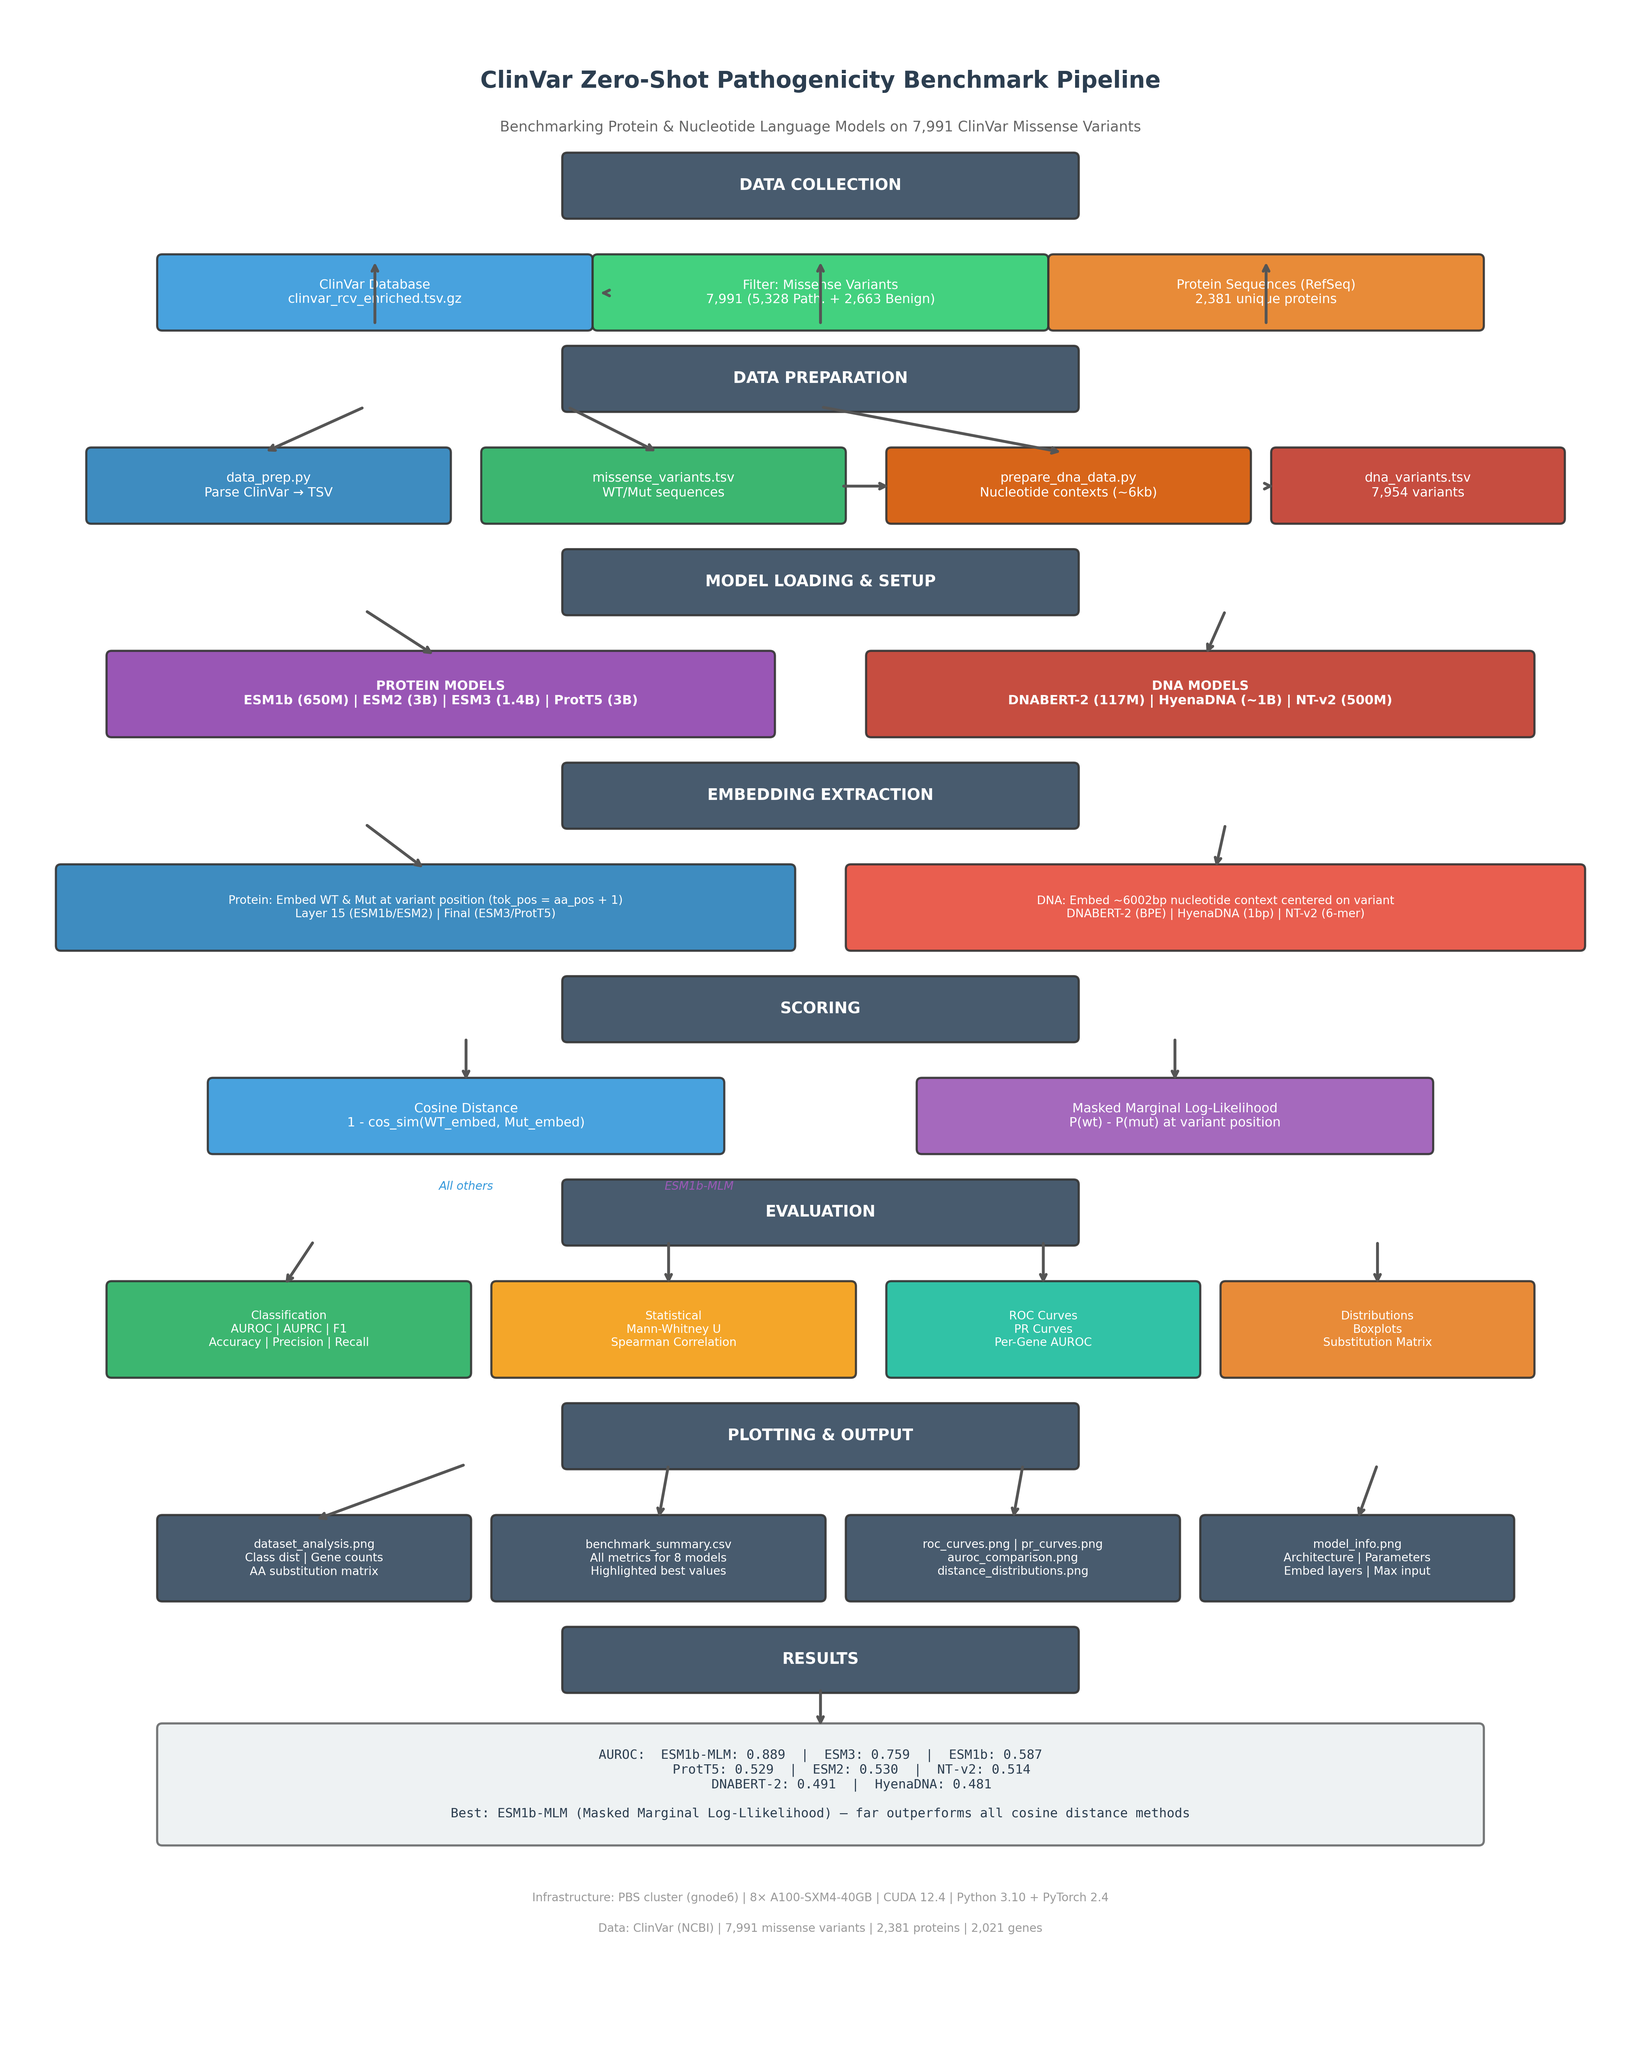
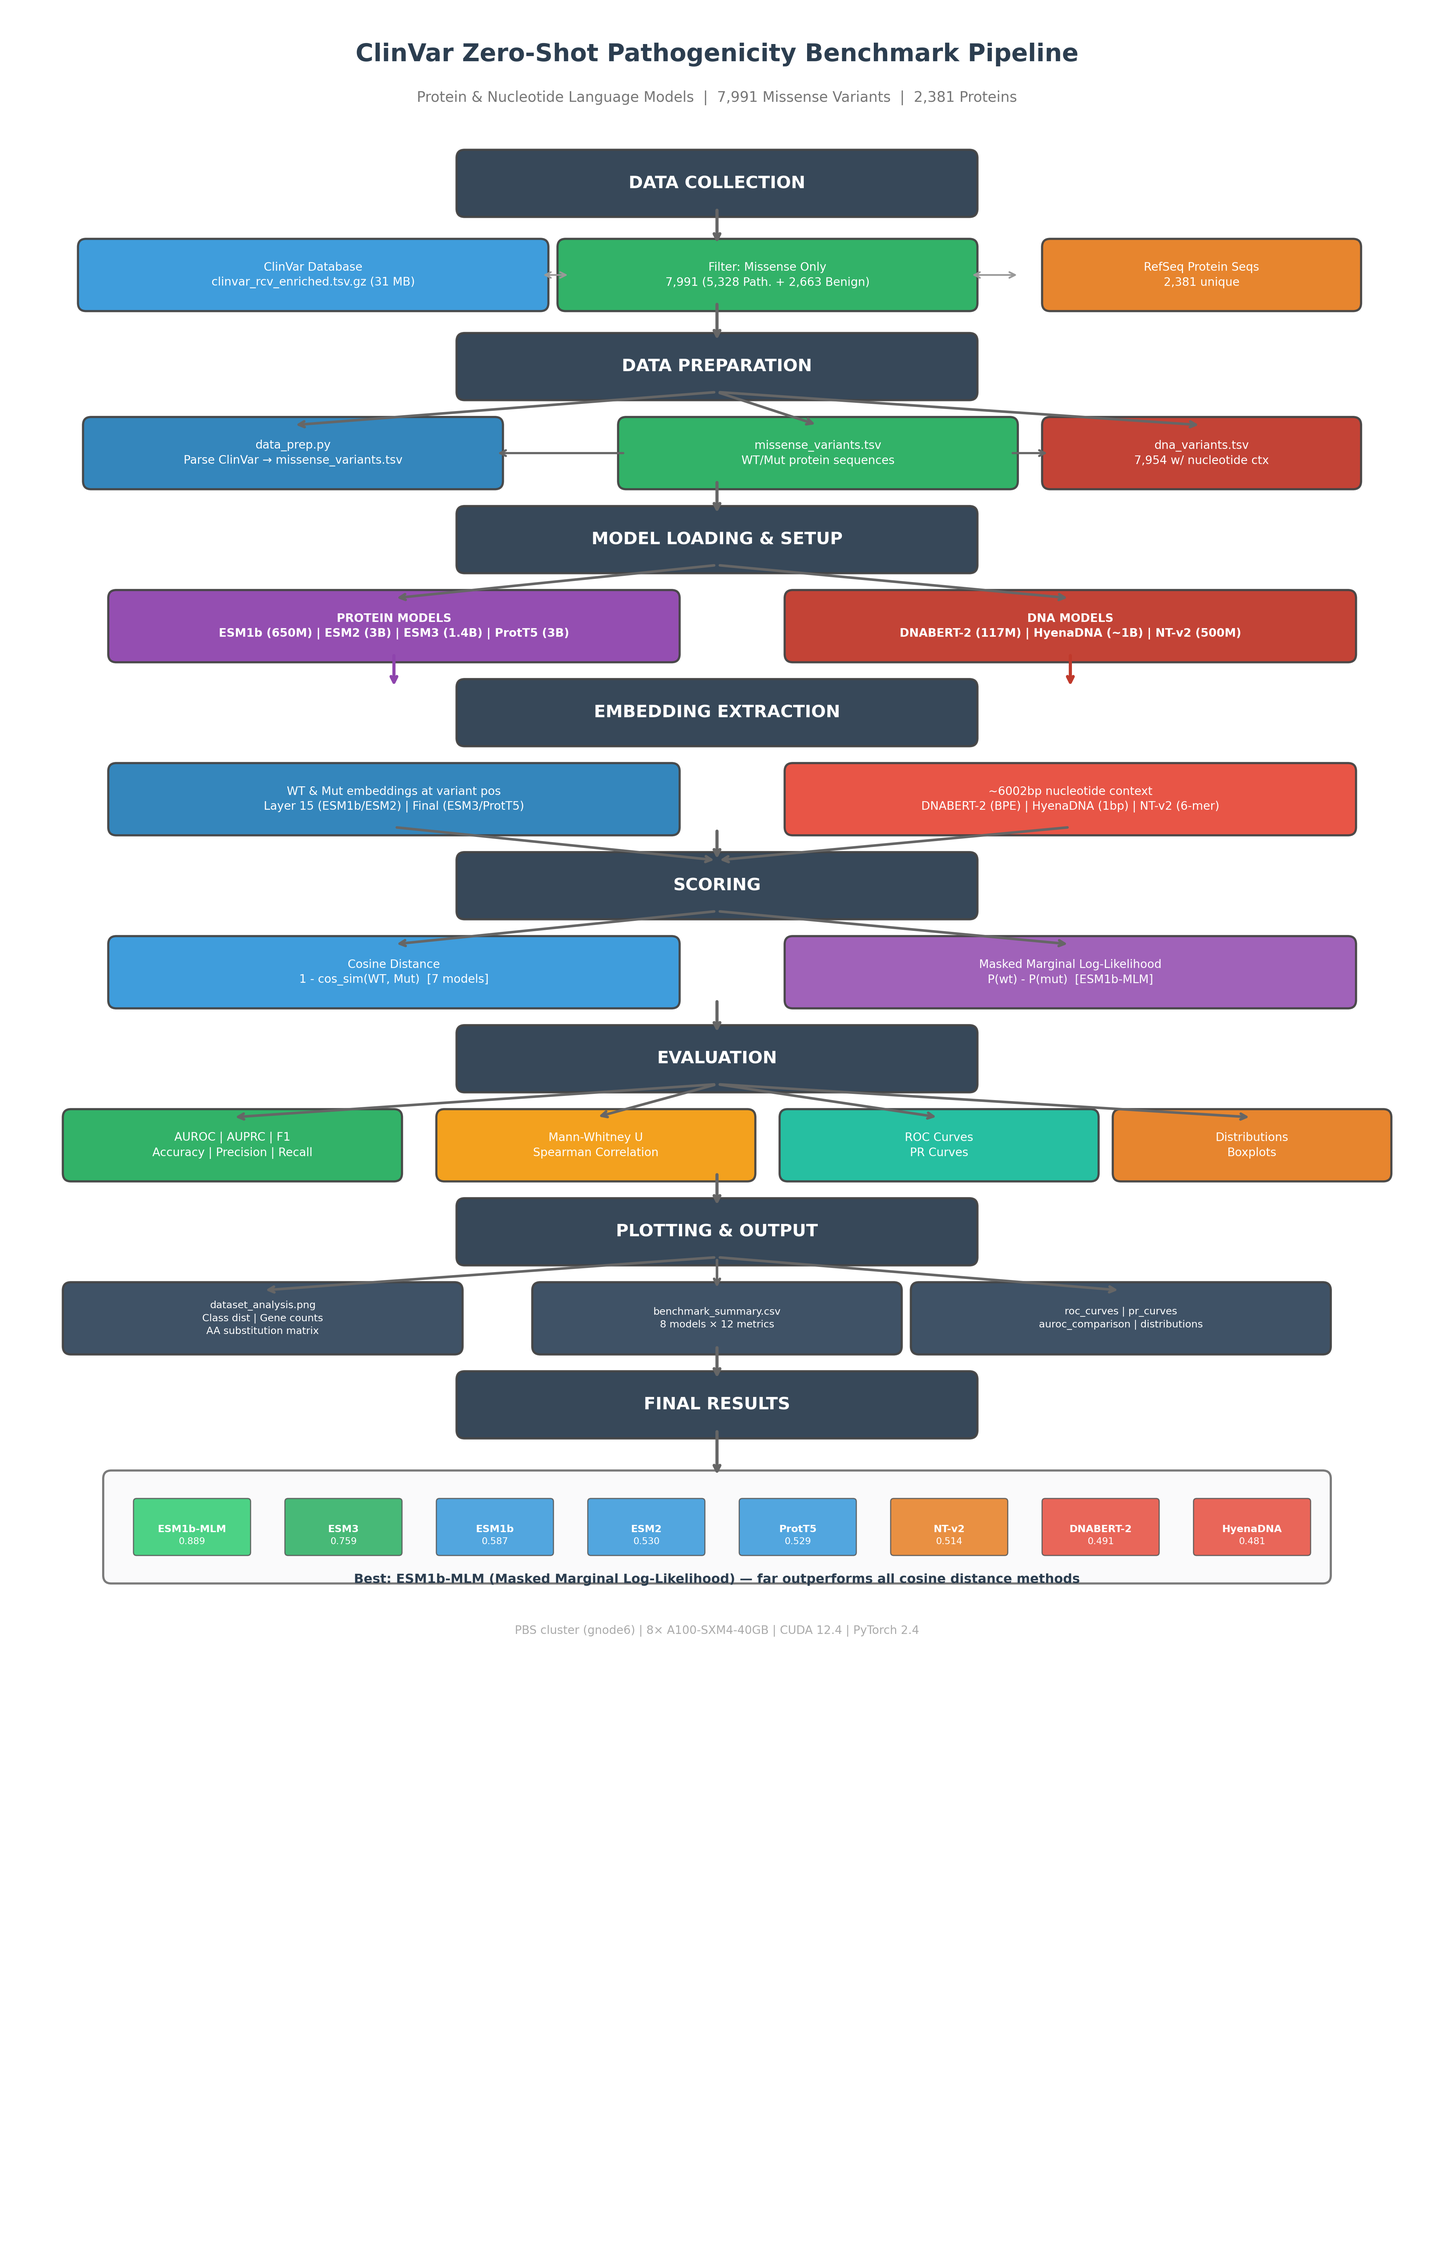
Fix pipeline diagram arrows and flow

diff --git a/make_pipeline_plot.py b/make_pipeline_plot.py
@@ -1,134 +1,172 @@
 import matplotlib
 matplotlib.use('Agg')
 import matplotlib.pyplot as plt
-import matplotlib.patches as mpatches
-from matplotlib.patches import FancyBboxPatch, FancyArrowPatch
+from matplotlib.patches import FancyBboxPatch
 import numpy as np
 
-fig, ax = plt.subplots(figsize=(16, 20))
-ax.set_xlim(0, 16)
-ax.set_ylim(0, 20)
+fig, ax = plt.subplots(figsize=(14, 22))
+ax.set_xlim(0, 14)
+ax.set_ylim(0, 22)
 ax.axis('off')
 
-def draw_box(ax, x, y, w, h, text, color, fontsize=9, bold=False, textcolor='white', alpha=0.9, style='round,pad=0.05'):
-    box = FancyBboxPatch((x, y), w, h, boxstyle=style, facecolor=color, edgecolor='#333333',
-                         linewidth=1.5, alpha=alpha, zorder=2)
+def draw_box(ax, cx, cy, w, h, text, color, fontsize=9, bold=False, textcolor='white', alpha=0.95):
+    x = cx - w/2
+    y = cy - h/2
+    box = FancyBboxPatch((x, y), w, h, boxstyle='round,pad=0.08', facecolor=color,
+                         edgecolor='#444444', linewidth=1.5, alpha=alpha, zorder=2)
     ax.add_patch(box)
     weight = 'bold' if bold else 'normal'
-    ax.text(x + w/2, y + h/2, text, ha='center', va='center', fontsize=fontsize,
-            fontweight=weight, color=textcolor, zorder=3, wrap=True,
-            bbox=dict(boxstyle='round,pad=0.01', facecolor='none', edgecolor='none'))
+    ax.text(cx, cy, text, ha='center', va='center', fontsize=fontsize,
+            fontweight=weight, color=textcolor, zorder=3, linespacing=1.4)
 
-def draw_arrow(ax, x1, y1, x2, y2, color='#555555'):
-    ax.annotate('', xy=(x2, y2), xytext=(x1, y1),
-                arrowprops=dict(arrowstyle='->', color=color, lw=2, shrinkA=2, shrinkB=2))
+def arrow_down(ax, cx, top_y, bot_y, color='#666666'):
+    ax.annotate('', xy=(cx, bot_y), xytext=(cx, top_y),
+                arrowprops=dict(arrowstyle='->', color=color, lw=2.2, shrinkA=1, shrinkB=1))
 
-title_y = 19.3
-ax.text(8, title_y, 'ClinVar Zero-Shot Pathogenicity Benchmark Pipeline',
-        ha='center', va='center', fontsize=16, fontweight='bold', color='#2c3e50')
+def arrow_split(ax, cx, top_y, targets, bot_y, color='#666666'):
+    for tx in targets:
+        ax.annotate('', xy=(tx, bot_y), xytext=(cx, top_y),
+                    arrowprops=dict(arrowstyle='->', color=color, lw=1.8, shrinkA=2, shrinkB=2))
 
-ax.text(8, title_y - 0.45, 'Benchmarking Protein & Nucleotide Language Models on 7,991 ClinVar Missense Variants',
-        ha='center', va='center', fontsize=10, color='#666666')
+def arrow_merge(ax, cx, bot_y, sources, top_y, color='#666666'):
+    for sx in sources:
+        ax.annotate('', xy=(cx, bot_y), xytext=(sx, top_y),
+                    arrowprops=dict(arrowstyle='->', color=color, lw=1.8, shrinkA=2, shrinkB=2))
 
-section_color = '#34495e'
+# --- TITLE ---
+ax.text(7, 21.5, 'ClinVar Zero-Shot Pathogenicity Benchmark Pipeline',
+        ha='center', fontsize=17, fontweight='bold', color='#2c3e50')
+ax.text(7, 21.1, 'Protein & Nucleotide Language Models  |  7,991 Missense Variants  |  2,381 Proteins',
+        ha='center', fontsize=10, color='#777777')
 
-draw_box(ax, 5.5, 18.0, 5, 0.55, 'DATA COLLECTION', section_color, fontsize=11, bold=True)
+# ===== SECTION 1: DATA COLLECTION =====
+sec_y = 20.3
+draw_box(ax, 7, sec_y, 5, 0.5, 'DATA COLLECTION', '#2c3e50', fontsize=12, bold=True)
+arrow_down(ax, 7, sec_y - 0.25, 19.7)
 
-draw_box(ax, 1.5, 16.9, 4.2, 0.65, 'ClinVar Database\nclinvar_rcv_enriched.tsv.gz', '#3498db', fontsize=9)
-draw_box(ax, 5.8, 16.9, 4.4, 0.65, 'Filter: Missense Variants\n7,991 (5,328 Path. + 2,663 Benign)', '#2ecc71', fontsize=9)
-draw_box(ax, 10.3, 16.9, 4.2, 0.65, 'Protein Sequences (RefSeq)\n2,381 unique proteins', '#e67e22', fontsize=9)
+box_y = 19.4
+draw_box(ax, 3.0, box_y, 4.5, 0.55, 'ClinVar Database\nclinvar_rcv_enriched.tsv.gz (31 MB)', '#3498db', fontsize=8)
+draw_box(ax, 7.5, box_y, 4.0, 0.55, 'Filter: Missense Only\n7,991 (5,328 Path. + 2,663 Benign)', '#27ae60', fontsize=8)
+draw_box(ax, 11.8, box_y, 3.0, 0.55, 'RefSeq Protein Seqs\n2,381 unique', '#e67e22', fontsize=8)
 
-draw_arrow(ax, 3.6, 16.9, 3.6, 17.55)
-draw_arrow(ax, 8.0, 16.9, 8.0, 17.55)
-draw_arrow(ax, 12.4, 16.9, 12.4, 17.55)
-draw_arrow(ax, 5.9, 17.22, 5.8, 17.22)
+# horizontal connections between collection boxes
+ax.annotate('', xy=(5.25, box_y), xytext=(5.55, box_y),
+            arrowprops=dict(arrowstyle='<->', color='#999', lw=1.2))
+ax.annotate('', xy=(9.5, box_y), xytext=(10.0, box_y),
+            arrowprops=dict(arrowstyle='<->', color='#999', lw=1.2))
 
-draw_box(ax, 5.5, 16.1, 5, 0.55, 'DATA PREPARATION', section_color, fontsize=11, bold=True)
+# ===== SECTION 2: DATA PREPARATION =====
+sec_y = 18.5
+draw_box(ax, 7, sec_y, 5, 0.5, 'DATA PREPARATION', '#2c3e50', fontsize=12, bold=True)
+arrow_down(ax, 7, box_y - 0.275, sec_y + 0.25)
 
-draw_box(ax, 0.8, 15.0, 3.5, 0.65, 'data_prep.py\nParse ClinVar → TSV', '#2980b9', fontsize=9)
-draw_box(ax, 4.7, 15.0, 3.5, 0.65, 'missense_variants.tsv\nWT/Mut sequences', '#27ae60', fontsize=9)
-draw_box(ax, 8.7, 15.0, 3.5, 0.65, 'prepare_dna_data.py\nNucleotide contexts (~6kb)', '#d35400', fontsize=9)
-draw_box(ax, 12.5, 15.0, 2.8, 0.65, 'dna_variants.tsv\n7,954 variants', '#c0392b', fontsize=9)
+box_y = 17.65
+draw_box(ax, 2.8, box_y, 4.0, 0.55, 'data_prep.py\nParse ClinVar → missense_variants.tsv', '#2980b9', fontsize=8)
+draw_box(ax, 8.0, box_y, 3.8, 0.55, 'missense_variants.tsv\nWT/Mut protein sequences', '#27ae60', fontsize=8)
+draw_box(ax, 11.8, box_y, 3.0, 0.55, 'dna_variants.tsv\n7,954 w/ nucleotide ctx', '#c0392b', fontsize=8)
 
-draw_arrow(ax, 3.5, 16.1, 2.5, 15.65)
-draw_arrow(ax, 5.5, 16.1, 6.4, 15.65)
-draw_arrow(ax, 8.0, 16.1, 10.4, 15.65)
-draw_arrow(ax, 8.2, 15.32, 8.7, 15.32)
-draw_arrow(ax, 12.4, 15.32, 12.5, 15.32)
+arrow_split(ax, 7, sec_y - 0.25, [2.8, 8.0, 11.8], box_y + 0.275)
+ax.annotate('', xy=(4.8, box_y), xytext=(6.1, box_y),
+            arrowprops=dict(arrowstyle='->', color='#666', lw=1.5))
+ax.annotate('', xy=(10.3, box_y), xytext=(9.9, box_y),
+            arrowprops=dict(arrowstyle='->', color='#666', lw=1.5))
 
-draw_box(ax, 5.5, 14.1, 5, 0.55, 'MODEL LOADING & SETUP', section_color, fontsize=11, bold=True)
+# ===== SECTION 3: MODEL LOADING =====
+sec_y = 16.8
+draw_box(ax, 7, sec_y, 5, 0.5, 'MODEL LOADING & SETUP', '#2c3e50', fontsize=12, bold=True)
+arrow_down(ax, 7, 17.375, sec_y + 0.25)
 
-draw_box(ax, 1.0, 12.9, 6.5, 0.75, 'PROTEIN MODELS\nESM1b (650M) | ESM2 (3B) | ESM3 (1.4B) | ProtT5 (3B)', '#8e44ad', fontsize=9, bold=True)
-draw_box(ax, 8.5, 12.9, 6.5, 0.75, 'DNA MODELS\nDNABERT-2 (117M) | HyenaDNA (~1B) | NT-v2 (500M)', '#c0392b', fontsize=9, bold=True)
+box_y = 15.95
+draw_box(ax, 3.8, box_y, 5.5, 0.55, 'PROTEIN MODELS\nESM1b (650M) | ESM2 (3B) | ESM3 (1.4B) | ProtT5 (3B)', '#8e44ad', fontsize=8, bold=True)
+draw_box(ax, 10.5, box_y, 5.5, 0.55, 'DNA MODELS\nDNABERT-2 (117M) | HyenaDNA (~1B) | NT-v2 (500M)', '#c0392b', fontsize=8, bold=True)
 
-draw_arrow(ax, 3.5, 14.1, 4.2, 13.65)
-draw_arrow(ax, 12.0, 14.1, 11.8, 13.65)
+arrow_split(ax, 7, sec_y - 0.25, [3.8, 10.5], box_y + 0.275)
 
-draw_box(ax, 5.5, 12.0, 5, 0.55, 'EMBEDDING EXTRACTION', section_color, fontsize=11, bold=True)
+# ===== SECTION 4: EMBEDDING =====
+sec_y = 15.1
+draw_box(ax, 7, sec_y, 5, 0.5, 'EMBEDDING EXTRACTION', '#2c3e50', fontsize=12, bold=True)
+arrow_down(ax, 3.8, box_y - 0.275, sec_y + 0.25, '#8e44ad')
+arrow_down(ax, 10.5, box_y - 0.275, sec_y + 0.25, '#c0392b')
 
-draw_box(ax, 0.5, 10.8, 7.2, 0.75, 'Protein: Embed WT & Mut at variant position (tok_pos = aa_pos + 1)\nLayer 15 (ESM1b/ESM2) | Final (ESM3/ProtT5)', '#2980b9', fontsize=8)
-draw_box(ax, 8.3, 10.8, 7.2, 0.75, 'DNA: Embed ~6002bp nucleotide context centered on variant\nDNABERT-2 (BPE) | HyenaDNA (1bp) | NT-v2 (6-mer)', '#e74c3c', fontsize=8)
+box_y = 14.25
+draw_box(ax, 3.8, box_y, 5.5, 0.55, 'WT & Mut embeddings at variant pos\nLayer 15 (ESM1b/ESM2) | Final (ESM3/ProtT5)', '#2980b9', fontsize=8)
+draw_box(ax, 10.5, box_y, 5.5, 0.55, '~6002bp nucleotide context\nDNABERT-2 (BPE) | HyenaDNA (1bp) | NT-v2 (6-mer)', '#e74c3c', fontsize=8)
 
-draw_arrow(ax, 3.5, 12.0, 4.1, 11.55)
-draw_arrow(ax, 12.0, 12.0, 11.9, 11.55)
+# ===== SECTION 5: SCORING =====
+sec_y = 13.4
+draw_box(ax, 7, sec_y, 5, 0.5, 'SCORING', '#2c3e50', fontsize=12, bold=True)
+arrow_down(ax, 7, 13.95, sec_y + 0.25)
 
-draw_box(ax, 5.5, 9.9, 5, 0.55, 'SCORING', section_color, fontsize=11, bold=True)
+# Merge arrows from both embedding boxes into scoring
+arrow_merge(ax, 7, sec_y + 0.25, [3.8, 10.5], box_y - 0.275)
 
-draw_box(ax, 2.0, 8.8, 5.0, 0.65, 'Cosine Distance\n1 - cos_sim(WT_embed, Mut_embed)', '#3498db', fontsize=9)
-draw_box(ax, 9.0, 8.8, 5.0, 0.65, 'Masked Marginal Log-Likelihood\nP(wt) - P(mut) at variant position', '#9b59b6', fontsize=9)
+box_y = 12.55
+draw_box(ax, 3.8, box_y, 5.5, 0.55, 'Cosine Distance\n1 - cos_sim(WT, Mut)  [7 models]', '#3498db', fontsize=8)
+draw_box(ax, 10.5, box_y, 5.5, 0.55, 'Masked Marginal Log-Likelihood\nP(wt) - P(mut)  [ESM1b-MLM]', '#9b59b6', fontsize=8)
 
-draw_arrow(ax, 4.5, 9.9, 4.5, 9.45)
-draw_arrow(ax, 11.5, 9.9, 11.5, 9.45)
+arrow_split(ax, 7, sec_y - 0.25, [3.8, 10.5], box_y + 0.275)
 
-ax.text(6.8, 8.4, 'ESM1b-MLM', ha='center', fontsize=8, color='#9b59b6', style='italic')
-ax.text(4.5, 8.4, 'All others', ha='center', fontsize=8, color='#3498db', style='italic')
+# ===== SECTION 6: EVALUATION =====
+sec_y = 11.7
+draw_box(ax, 7, sec_y, 5, 0.5, 'EVALUATION', '#2c3e50', fontsize=12, bold=True)
+arrow_down(ax, 7, box_y - 0.275, sec_y + 0.25)
 
-draw_box(ax, 5.5, 7.9, 5, 0.55, 'EVALUATION', section_color, fontsize=11, bold=True)
+box_y = 10.85
+draw_box(ax, 2.2, box_y, 3.2, 0.55, 'AUROC | AUPRC | F1\nAccuracy | Precision | Recall', '#27ae60', fontsize=8)
+draw_box(ax, 5.8, box_y, 3.0, 0.55, 'Mann-Whitney U\nSpearman Correlation', '#f39c12', fontsize=8)
+draw_box(ax, 9.2, box_y, 3.0, 0.55, 'ROC Curves\nPR Curves', '#1abc9c', fontsize=8)
+draw_box(ax, 12.3, box_y, 2.6, 0.55, 'Distributions\nBoxplots', '#e67e22', fontsize=8)
 
-draw_box(ax, 1.0, 6.6, 3.5, 0.85, 'Classification\nAUROC | AUPRC | F1\nAccuracy | Precision | Recall', '#27ae60', fontsize=8)
-draw_box(ax, 4.8, 6.6, 3.5, 0.85, 'Statistical\nMann-Whitney U\nSpearman Correlation', '#f39c12', fontsize=8)
-draw_box(ax, 8.7, 6.6, 3.0, 0.85, 'ROC Curves\nPR Curves\nPer-Gene AUROC', '#1abc9c', fontsize=8)
-draw_box(ax, 12.0, 6.6, 3.0, 0.85, 'Distributions\nBoxplots\nSubstitution Matrix', '#e67e22', fontsize=8)
+arrow_split(ax, 7, sec_y - 0.25, [2.2, 5.8, 9.2, 12.3], box_y + 0.275)
 
-draw_arrow(ax, 3.0, 7.9, 2.7, 7.45)
-draw_arrow(ax, 6.5, 7.9, 6.5, 7.45)
-draw_arrow(ax, 10.2, 7.9, 10.2, 7.45)
-draw_arrow(ax, 13.5, 7.9, 13.5, 7.45)
+# ===== SECTION 7: PLOTTING & OUTPUT =====
+sec_y = 10.0
+draw_box(ax, 7, sec_y, 5, 0.5, 'PLOTTING & OUTPUT', '#2c3e50', fontsize=12, bold=True)
+arrow_down(ax, 7, box_y - 0.275, sec_y + 0.25)
 
-draw_box(ax, 5.5, 5.7, 5, 0.55, 'PLOTTING & OUTPUT', section_color, fontsize=11, bold=True)
+box_y = 9.15
+draw_box(ax, 2.5, box_y, 3.8, 0.55, 'dataset_analysis.png\nClass dist | Gene counts\nAA substitution matrix', '#34495e', fontsize=7)
+draw_box(ax, 7.0, box_y, 3.5, 0.55, 'benchmark_summary.csv\n8 models × 12 metrics', '#34495e', fontsize=7)
+draw_box(ax, 11.0, box_y, 4.0, 0.55, 'roc_curves | pr_curves\nauroc_comparison | distributions', '#34495e', fontsize=7)
 
-draw_box(ax, 1.5, 4.4, 3.0, 0.75, 'dataset_analysis.png\nClass dist | Gene counts\nAA substitution matrix', '#34495e', fontsize=8)
-draw_box(ax, 4.8, 4.4, 3.2, 0.75, 'benchmark_summary.csv\nAll metrics for 8 models\nHighlighted best values', '#34495e', fontsize=8)
-draw_box(ax, 8.3, 4.4, 3.2, 0.75, 'roc_curves.png | pr_curves.png\nauroc_comparison.png\ndistance_distributions.png', '#34495e', fontsize=8)
-draw_box(ax, 11.8, 4.4, 3.0, 0.75, 'model_info.png\nArchitecture | Parameters\nEmbed layers | Max input', '#34495e', fontsize=8)
+arrow_split(ax, 7, sec_y - 0.25, [2.5, 7.0, 11.0], box_y + 0.275)
 
-draw_arrow(ax, 4.5, 5.7, 3.0, 5.15)
-draw_arrow(ax, 6.5, 5.7, 6.4, 5.15)
-draw_arrow(ax, 10.0, 5.7, 9.9, 5.15)
-draw_arrow(ax, 13.5, 5.7, 13.3, 5.15)
+# ===== RESULTS BOX =====
+sec_y = 8.3
+draw_box(ax, 7, sec_y, 5, 0.5, 'FINAL RESULTS', '#2c3e50', fontsize=12, bold=True)
+arrow_down(ax, 7, box_y - 0.275, sec_y + 0.25)
 
-draw_box(ax, 5.5, 3.5, 5, 0.55, 'RESULTS', section_color, fontsize=11, bold=True)
+# Results table
+res_y = 7.1
+draw_box(ax, 7, res_y, 12, 0.95, '', '#f8f9fa', alpha=0.7)
 
-draw_box(ax, 1.5, 2.0, 13.0, 1.1, '', '#ecf0f1', fontsize=9, alpha=0.6)
-ax.add_patch(FancyBboxPatch((1.5, 2.0), 13.0, 1.1, boxstyle='round,pad=0.05',
-             facecolor='#ecf0f1', edgecolor='#bdc3c7', linewidth=1.5, alpha=0.6, zorder=1))
+results_lines = [
+    ("ESM1b-MLM", "0.889", "#2ecc71"),
+    ("ESM3", "0.759", "#27ae60"),
+    ("ESM1b", "0.587", "#3498db"),
+    ("ESM2", "0.530", "#3498db"),
+    ("ProtT5", "0.529", "#3498db"),
+    ("NT-v2", "0.514", "#e67e22"),
+    ("DNABERT-2", "0.491", "#e74c3c"),
+    ("HyenaDNA", "0.481", "#e74c3c"),
+]
 
-results_text = (
-    "AUROC:  ESM1b-MLM: 0.889  |  ESM3: 0.759  |  ESM1b: 0.587\n"
-    "        ProtT5: 0.529  |  ESM2: 0.530  |  NT-v2: 0.514\n"
-    "        DNABERT-2: 0.491  |  HyenaDNA: 0.481\n\n"
-    "Best: ESM1b-MLM (Masked Marginal Log-Llikelihood) — far outperforms all cosine distance methods"
-)
-ax.text(8, 2.55, results_text, ha='center', va='center', fontsize=9, fontfamily='monospace',
-        color='#2c3e50', zorder=3)
+x_start = 1.8
+for i, (name, auroc, color) in enumerate(results_lines):
+    x = x_start + i * 1.5
+    ax.add_patch(FancyBboxPatch((x - 0.55, 6.85), 1.1, 0.5, boxstyle='round,pad=0.03',
+                 facecolor=color, edgecolor='#555', linewidth=0.8, alpha=0.85, zorder=2))
+    ax.text(x, 7.05, f'{name}', ha='center', fontsize=7, fontweight='bold', color='white', zorder=3)
+    ax.text(x, 6.93, auroc, ha='center', fontsize=6.5, color='white', zorder=3)
 
-draw_arrow(ax, 8.0, 3.5, 8.0, 3.1)
+ax.text(7, 6.55, 'Best: ESM1b-MLM (Masked Marginal Log-Likelihood) — far outperforms all cosine distance methods',
+        ha='center', fontsize=9, color='#2c3e50', fontweight='bold')
 
-ax.text(8, 1.4, 'Infrastructure: PBS cluster (gnode6) | 8× A100-SXM4-40GB | CUDA 12.4 | Python 3.10 + PyTorch 2.4',
-        ha='center', fontsize=8, color='#999999')
+arrow_down(ax, 7, sec_y - 0.25, 7.6)
 
-ax.text(8, 1.1, 'Data: ClinVar (NCBI) | 7,991 missense variants | 2,381 proteins | 2,021 genes',
-        ha='center', fontsize=8, color='#999999')
+# Infrastructure footer
+ax.text(7, 6.05, 'PBS cluster (gnode6) | 8× A100-SXM4-40GB | CUDA 12.4 | PyTorch 2.4',
+        ha='center', fontsize=8, color='#aaaaaa')
 
 plt.tight_layout()
 plt.savefig('figures/project_pipeline.png', dpi=300, bbox_inches='tight',
